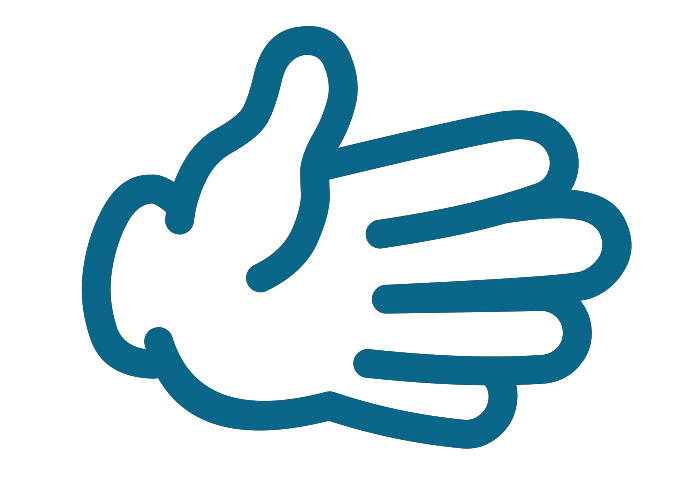
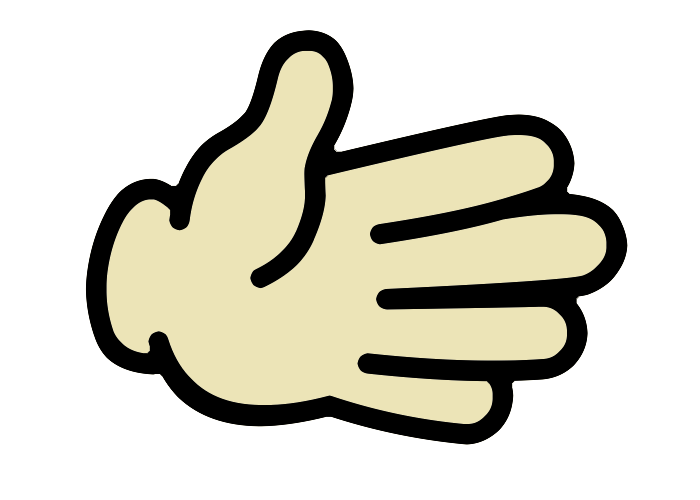
Updated styles and image colors.

diff --git a/src/main/resources/static/css/styles.css b/src/main/resources/static/css/styles.css
@@ -7,9 +7,16 @@ body {
     text-align:center;
     margin-top: 50px;
 }
-label, input,h1,h3,p{
+
+label, input,h1,h3,p,.error{
     margin: 0;
     padding: 0;
+}
+
+.error{
+    color: #D36135;
+    list-style-position: inside;
+    width: auto;
 }
 
 /*This controls the appearance of the radio buttons -- makes them images */
@@ -33,12 +40,12 @@ label, input,h1,h3,p{
     width:70px;
     height:70px;
     transition: all 100ms ease-in;
-    filter: brightness(30%) opacity(.7);
-    backgroun-repeat: no-repeat;
+    filter: brightness(50%) opacity(.5);
+    background-repeat: no-repeat;
 }
 
 .rock:hover, .paper:hover, .scissors:hover{
-    filter: brightness(50%) opacity(.8);
+    filter: brightness(80%) opacity(.8);
 }
 
 .game_radio input:checked + .choice{

diff --git a/src/main/resources/templates/Input.html b/src/main/resources/templates/Input.html
@@ -18,7 +18,7 @@
     <div th:if="${#fields.hasErrors('*')}">
         <h3 class="error">Input Errors</h3>
         <ul>
-            <li class="error" th:each="e: ${#fields.errors('*')}" th:text="${e}">Input Error</li>
+            <li class="error" th:each="e: ${#fields.errors('*')}" th:text="${e}"></li>
         </ul>
     </div>
 
